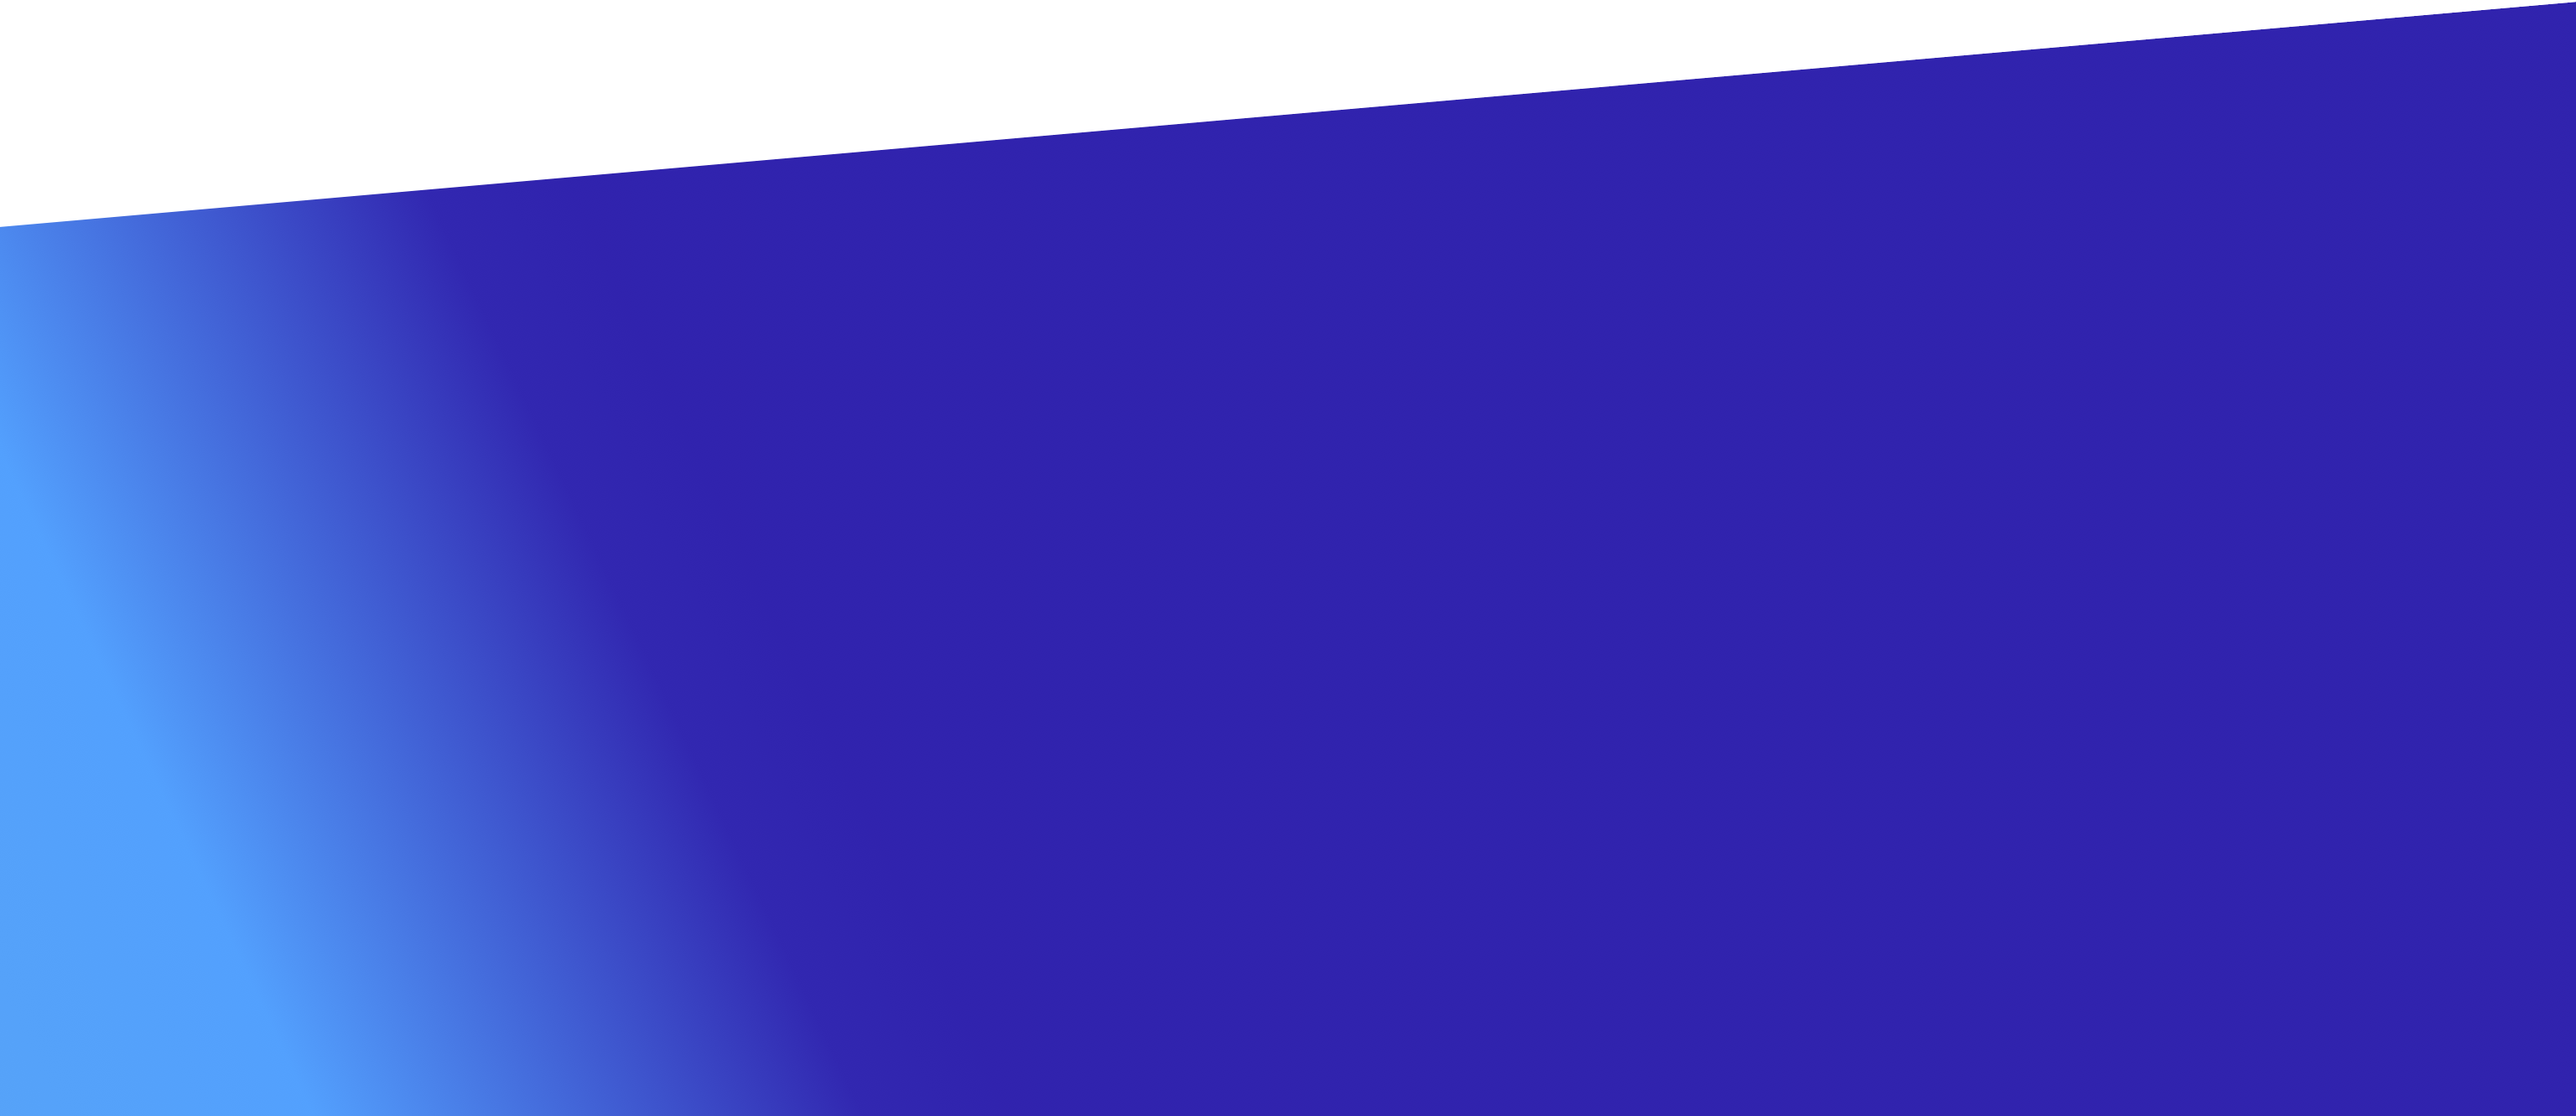
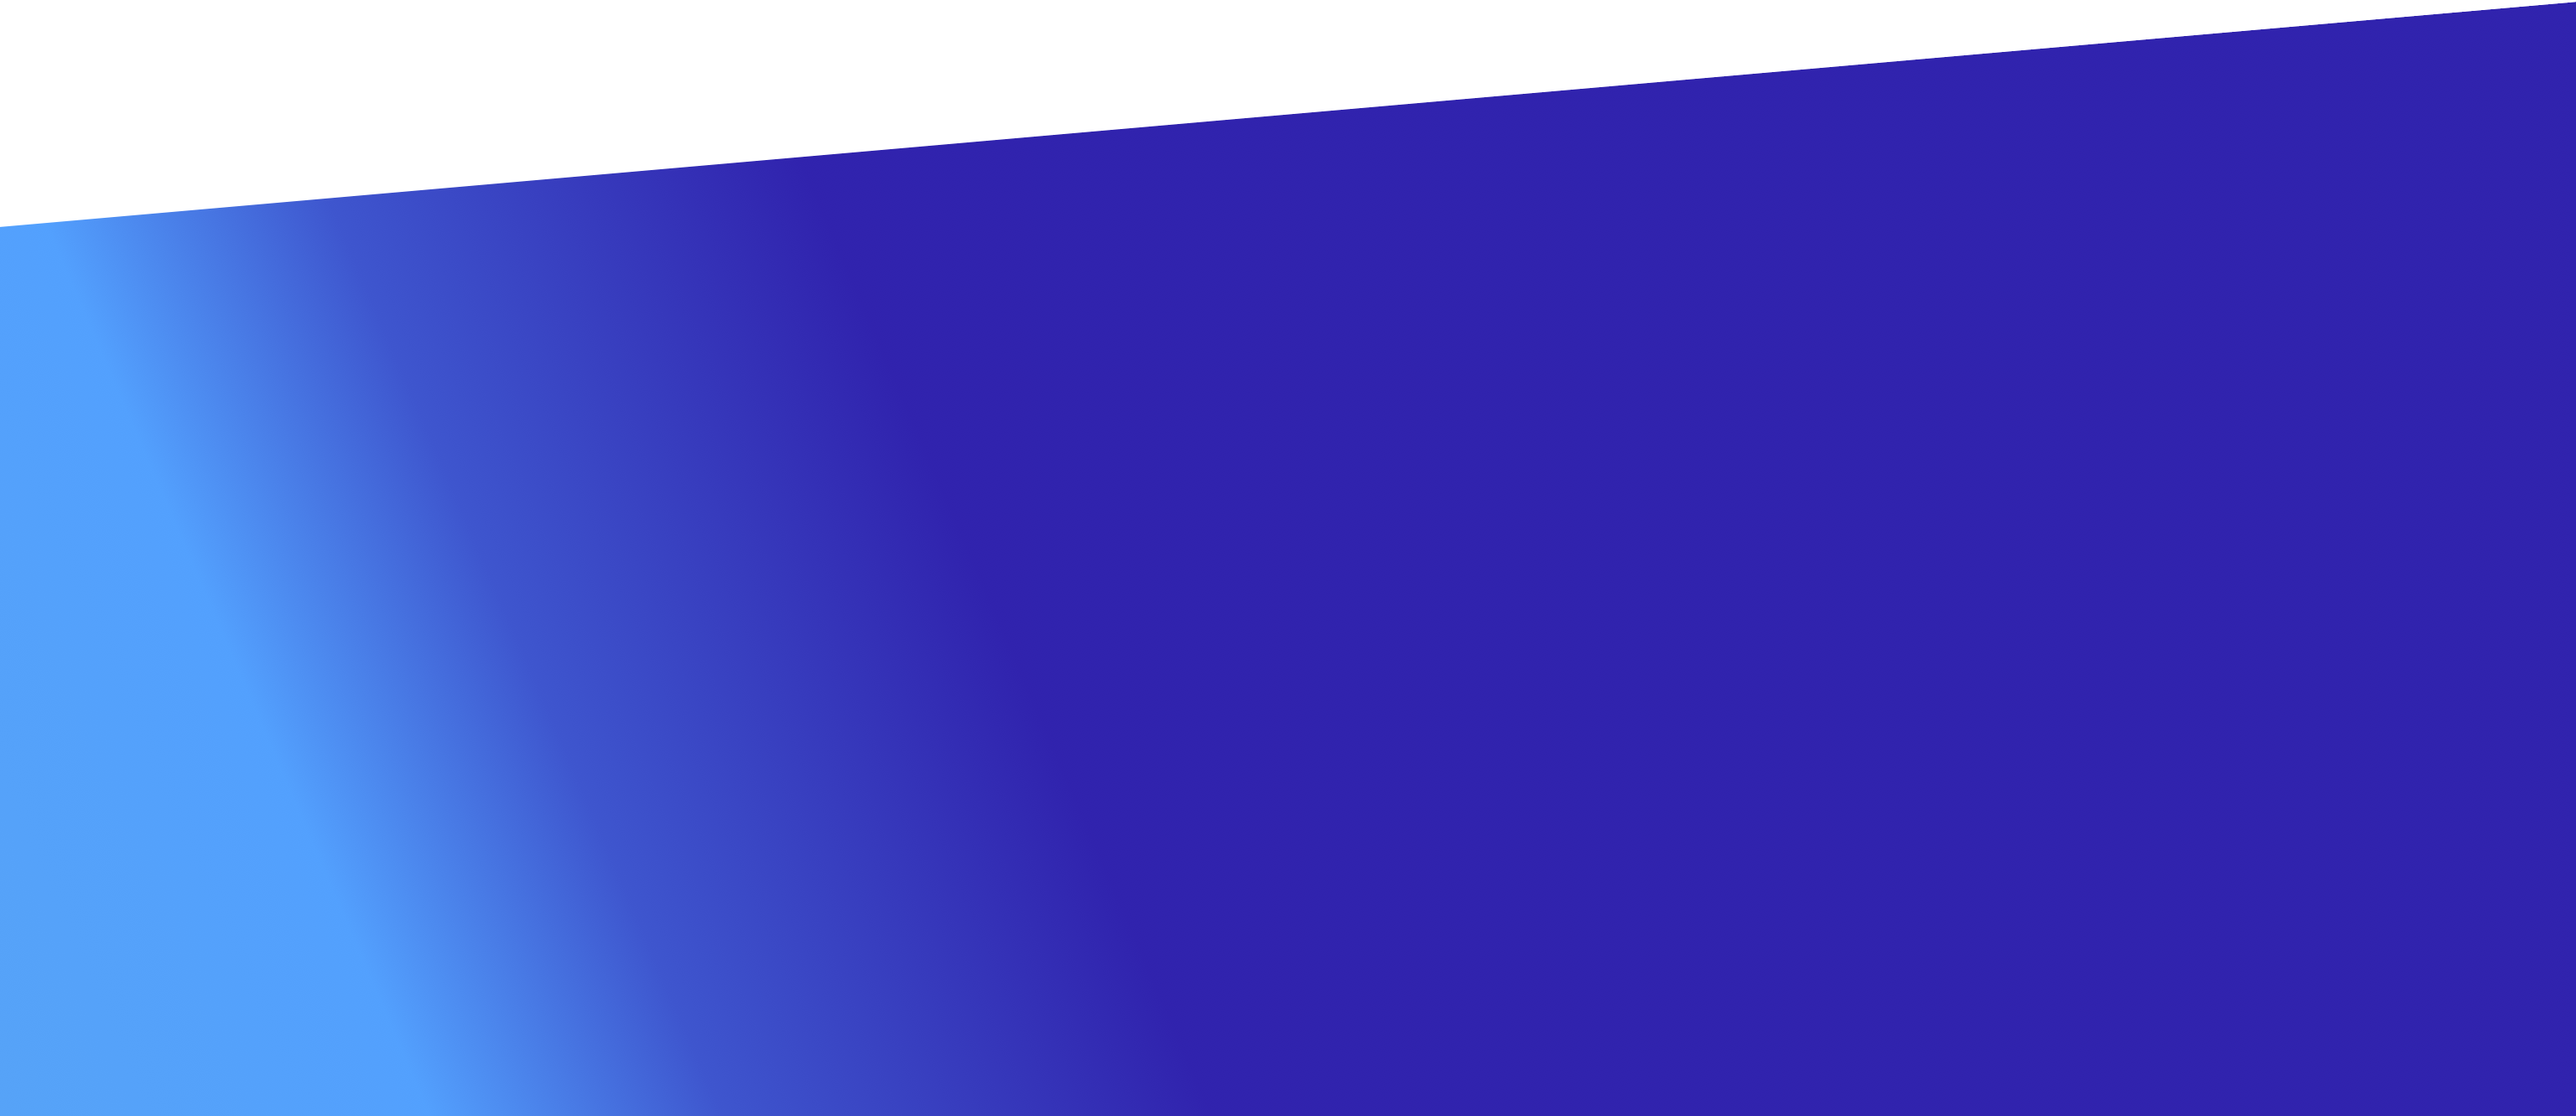
Finished css for home-page desktop.

Changed region(s): [[0.0, 0.1539, 0.375, 1.0]]

diff --git a/pages/index.vue b/pages/index.vue
@@ -1,6 +1,6 @@
 <template>
   <div>
-    <section id="hero">
+    <section id="hero" class="section-bg-colored">
       <h1>Nick Manning</h1>
       <ul>
         <li>CTO Consultant</li>
@@ -8,7 +8,7 @@
         <li>Berlin based New Yorker</li>
       </ul>
     </section>
-    <section>
+    <section class="section-bg-plain section-spacing-indented">
       <h2>Experience</h2>
       <ul>
         <li>7 years in CTO &amp; Technical Leadership Roles</li>
@@ -16,7 +16,7 @@
         <li>5 years of Mobile and eCommerce Product Strategy Consulting</li>
       </ul>
     </section>
-    <section>
+    <section id="technologies" class="section-bg-colored">
       <h2>Technologies</h2>
       <ul>
         <li>Technology 1</li>
@@ -35,31 +35,37 @@
       </ul>
       <h2>Featured Clients</h2>
       <img src="../assets/adidas-logo.png" alt="adidas">
-      <img src="../assets/benefit-logo.png" alt="benefit">
+      <img src="../assets/benefit-logo.png" alt="benefit"><br/>
       <img src="../assets/taylormade-ogo.png" alt="taylormade">
       <img src="../assets/reebok-logo.png" alt="reebok">
     </section>
-    <section>
-      <h2>Current</h2>
-      <h3>CTO / Co-Founder, Drinkeasy</h3>
-      <p><em>NYC, Berlin</em></p>
-      <p>A chatbot-fueled eCommerce platform for craft spirits.<br/>
-         Techstars 2017</p>
-      <a href="drinkeasy.co">drinkeasy.co</a>
-      <img src="../assets/drink-easy-logo.png" alt="drink-easy">
-    </section>
-    <section>
-      <h2>Recent</h2>
-      <h3>CTO / Co-Founder, Swig</h3>
-      <p><em>NYC</em></p>
-      <p>Photosharing for the world's drink explorers.</p>
-      <a href="swig.co">swig.co</a>
-      <img src="../assets/swig-logo.png" alt="swig-logo">
-    </section>
-    <section>
+    <div class="grid">
+      <section class="section-bg-plain section-spacing-indented">
+        <h2>Current</h2>
+        <h3>CTO / Co-Founder, Drinkeasy</h3>
+        <p><em>NYC, Berlin</em></p>
+        <p>A chatbot-fueled eCommerce platform for craft spirits.<br/>
+           Techstars 2017</p>
+        <a href="drinkeasy.co">drinkeasy.co</a>
+      </section>
+      <section class="drink-easy-logo">
+        <img src="../assets/drink-easy-logo.png" alt="drink-easy">
+      </section>
+      <section class="section-bg-plain section-spacing-indented">
+        <h2>Recent</h2>
+        <h3>CTO / Co-Founder, Swig</h3>
+        <p><em>NYC</em></p>
+        <p>Photosharing for the world's drink explorers.</p>
+        <a href="swig.co">swig.co</a>
+      </section>
+      <section class="swig-logo">
+        <img src="../assets/swig-logo.png" alt="swig-logo">
+      </section>
+    </div>
+    <section id="contact" class="section-bg-colored">
       <h2>Get in Touch</h2>
-      <p>0123456789</p>
-      <p>nicholas.manning@gmail.com</p>
+      <p>0123456789<br/>
+         nicholas.manning@gmail.com</p>
     </section>
   </div>
 </template>
@@ -75,10 +81,108 @@ export default {
 </script>
 
 <style>
-section#hero {
-  min-height: 800px;
-  background-image: url("~assets/rectangle-1.png");
-  background-repeat: no-repeat;
-  background-size: contain;
-}
+  #hero {
+    background-image: url("~assets/rectangle-1.png");
+  }
+  #technologies {
+    background-image: url("~assets/rectangle-2.png");
+  }
+  #contact {
+    background-image: url("~assets/rectangle-3.png");
+  }
+  #hero, #technologies, #contact {
+    background-repeat: no-repeat;
+    background-size: 100% 100%;
+  }
+  h1 {
+    margin-top: 0px;
+    font-size: 35px;
+    font-weight: bold;
+    letter-spacing: 0.5px;
+    color: #ffffff;
+  }
+  .section-bg-colored {
+    padding: 15% 0% 17% 20%;
+  }
+  ul {
+    list-style: none;
+    padding-left: 0px;
+    color: #ffffff;
+    font-size: 20px;
+    line-height: 1.5;
+    letter-spacing: 0.5px;
+    font-weight: 100;
+  }
+  .section-bg-plain {
+    padding: 10% 0% 10% 30%;
+  }
+  h2 {
+    font-size: 35px;
+    font-weight: bold;
+    letter-spacing: 0.5px;
+    color: #000000;
+  }
+  a {
+    text-decoration: none;
+    color: #53a0fe;
+    font-size: 20px;
+  }
+  p {
+    font-size: 20px;
+    line-height: 1.5;
+    letter-spacing: 0.5px;
+  }
+  .section-bg-plain ul {
+    color: #000000;
+  }
+  #technologies h2, #contact h2, #contact {
+    color: #ffffff;
+  }
+  #technologies ul {
+    display: inline-block;
+  }
+  #technologies ul:nth-of-type(2),
+  #technologies ul:nth-of-type(3) {
+    padding-left: 12%;
+  }
+  #technologies h2:nth-of-type(2) {
+    margin-top: 80px;
+  }
+  img {
+    width: 15%;
+  }
+  #technologies img:nth-of-type(2),
+  #technologies img:nth-of-type(4) {
+    padding-left: 13%;
+  }
+  #technologies img:nth-of-type(3),
+  #technologies img:nth-of-type(4) {
+    padding-top: 30px;
+    padding-bottom: 20px;
+  }
+  .grid {
+    display: grid;
+    grid-template-columns: 3fr 1fr;
+  }
+  .swig-logo,
+  .drink-easy-logo {
+    align-self: center;
+    justify-self: end;
+  }
+  .grid .section-bg-plain {
+    padding-left: 40%;
+  }
+  .grid .section-bg-plain p:nth-of-type(1) {
+    margin-top: 0px;
+  }
+  .grid h3 {
+    margin-bottom: 0px;
+  }
+  .drink-easy-logo img,
+  .swig-logo img {
+    width: 50%;
+  }
+  #contact {
+    padding-bottom: 5%;
+  }
 </style>

diff --git a/layouts/default.vue b/layouts/default.vue
@@ -5,5 +5,8 @@
 </template>
 
 <style>
-
+body {
+    margin: 0px;
+    font-family: "Avenir", sans-serif;
+}
 </style>

diff --git a/pages/detail.vue b/pages/detail.vue
@@ -8,4 +8,7 @@
 </script>
 
 <style>
+    body {
+        margin: 0px;
+    }
 </style>
